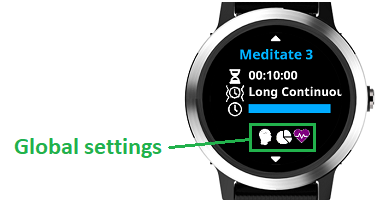
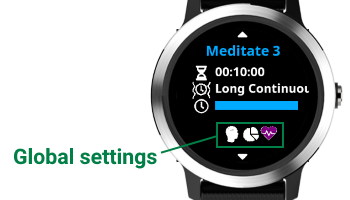
Use Guide - Improved screenshots; text improvements

Changed region(s): [[0.0286, 0.0, 1.0, 1.0]]

diff --git a/UserGuide.md b/UserGuide.md
@@ -28,9 +28,19 @@
 
 ![Session Picker](userGuideScreenshots/sessionPicker.png)
 
-1.2. You see the current elapsed time drawn as an arc with the color of the selected session. Once the arc becomes full circle the session time has elapsed. The small colored marks represent the time when interval alert will trigger. The interval alert trigger is drawn relative to the total session time. The time elapsed and the current HR are at the middle of the screen. The meditation session finishes once you press the stop button.
+1.2. The session in-progress screen contains the following elements
+- time elapsed arc 
+    - shows the percentage of elapsed session time
+    - full circle means session time has elapsed
+- interval alert triggers 
+    - the small colored marks represent the time of trigerring an interval alert
+    - each marked position corresponts to an alert trigger time
+- time elapsed 
+- current HR
 
-![Session in progress](userGuideScreenshots/sessionInProgress.png)
+The meditation session finishes once you press the stop button.
+
+![Session in progress](userGuideScreenshots/sessionInProgressExplained.png)
 
 1.3. Once you stop the session you have the option to save it.
 
@@ -51,23 +61,36 @@
 - Vibe Pattern - shorter or longer patterns ranging from pulsating or continuous
 - Interval Alerts - ability to configure multiple intermediate alerts
     - once you are on a specific interval alert you see in the menu title the Alert ID (e.g. Alert 1) relative to the current session interval alerts
-    - Time - select one-off or repetitive alert; repetitive alerts allow shorter durations than a minute
+    - Time 
+        - select one-off or repetitive alert
+        - repetitive alerts allow shorter durations than a minute
+        - only a single alert will execute at any given time
+        - priority of alerts with the same time
+          1. final session alert
+          2. last one-off alert
+          3. last repetative alert
     - Color - the color of the current interval alert used in the graphical controls. Select different colors for each alert to differentiate them during meditation. Select transparent color if you don't want to see visual marks for the alert during meditation
     - Vibe Pattern - shorter or longer patterns ranging from pulsating or continuous
 - Activity Type - ability to save the session as **Meditating** or **Yoga**. You can configure default activity type for new sessions from the Global Settings (see section 5).
-- Global Settings - see bellow section 4. Turning on/off Stress and HRV
+- Global Settings - see bellow section 4
 
- ![Session settings state](userGuideScreenshots/sessionSettingsState.png)
+### 3. Picking a session
 
-### 3. Selecting a session
+From the session picker screen press page up/down buttons (for Vivoactive 3 - swipe up/down).
+On this screen you can see the applicable settings for the selected session
+- activity type - in the title
+  - Meditate
+  - Yoga
+- time - total duration of the session
+- vibe pattern
+- interval alert triggers - the graph in the middle of the screen represents the relative alert triger time compared to the total session time
+- Global settings - see section 4
 
-Once you have more than one session you can select a session by using the page up/down behaviour on the watch (Vivoactive 3 - swipe up/down). Each session is displayed in the configured color. The session activity type - Meditate or Yoga is displayed in the title. The graph in the middle of the screen represents the relative time when interval alerts will trigger compared to the total session duration.
-
-![Session Picker](userGuideScreenshots/sessionPicker.png) ![Session settings state](userGuideScreenshots/sessionSettingsState.png)  ![Session settings state yoga](userGuideScreenshots/sessionSettingsStateYoga.png)
+![Session picker yoga explained](userGuideScreenshots/sessionPickerYogaExplained.png)
 
 ### 4. Turning on/off Stress and HRV
 
-From the session picker screen hold the menu button (for Vivoactive 3 hold on the screen) until you see the Session settings menu. Select the Global Settings Menu. Select the setting you wish to change. Once you are done you can see which features are turned on the currently selected session in the bottom icons row.
+From the session picker screen hold the menu button (for Vivoactive 3 hold on the screen) until you see the Session settings menu. Select the Global Settings Menu. Select the setting you wish to change. Once you are done you can see which features are turned by looking at the session picker screen's bottom icons row.
 - ![](userGuideScreenshots/globalSettingsStress.png) Stress tracking is On (tracking summary metrics of No, Low and High Stress)
 - ![](userGuideScreenshots/globalSettingsStressDetailed.png) Detailed Stress tracking is On (tracks additionally stress median and Max-Min HR Windows Graph)
 - ![](userGuideScreenshots/globalSettingsHrv.png) HRV tracking is On (tracks the standard deviation HRV of the first and last 5 min intervals of the session)
